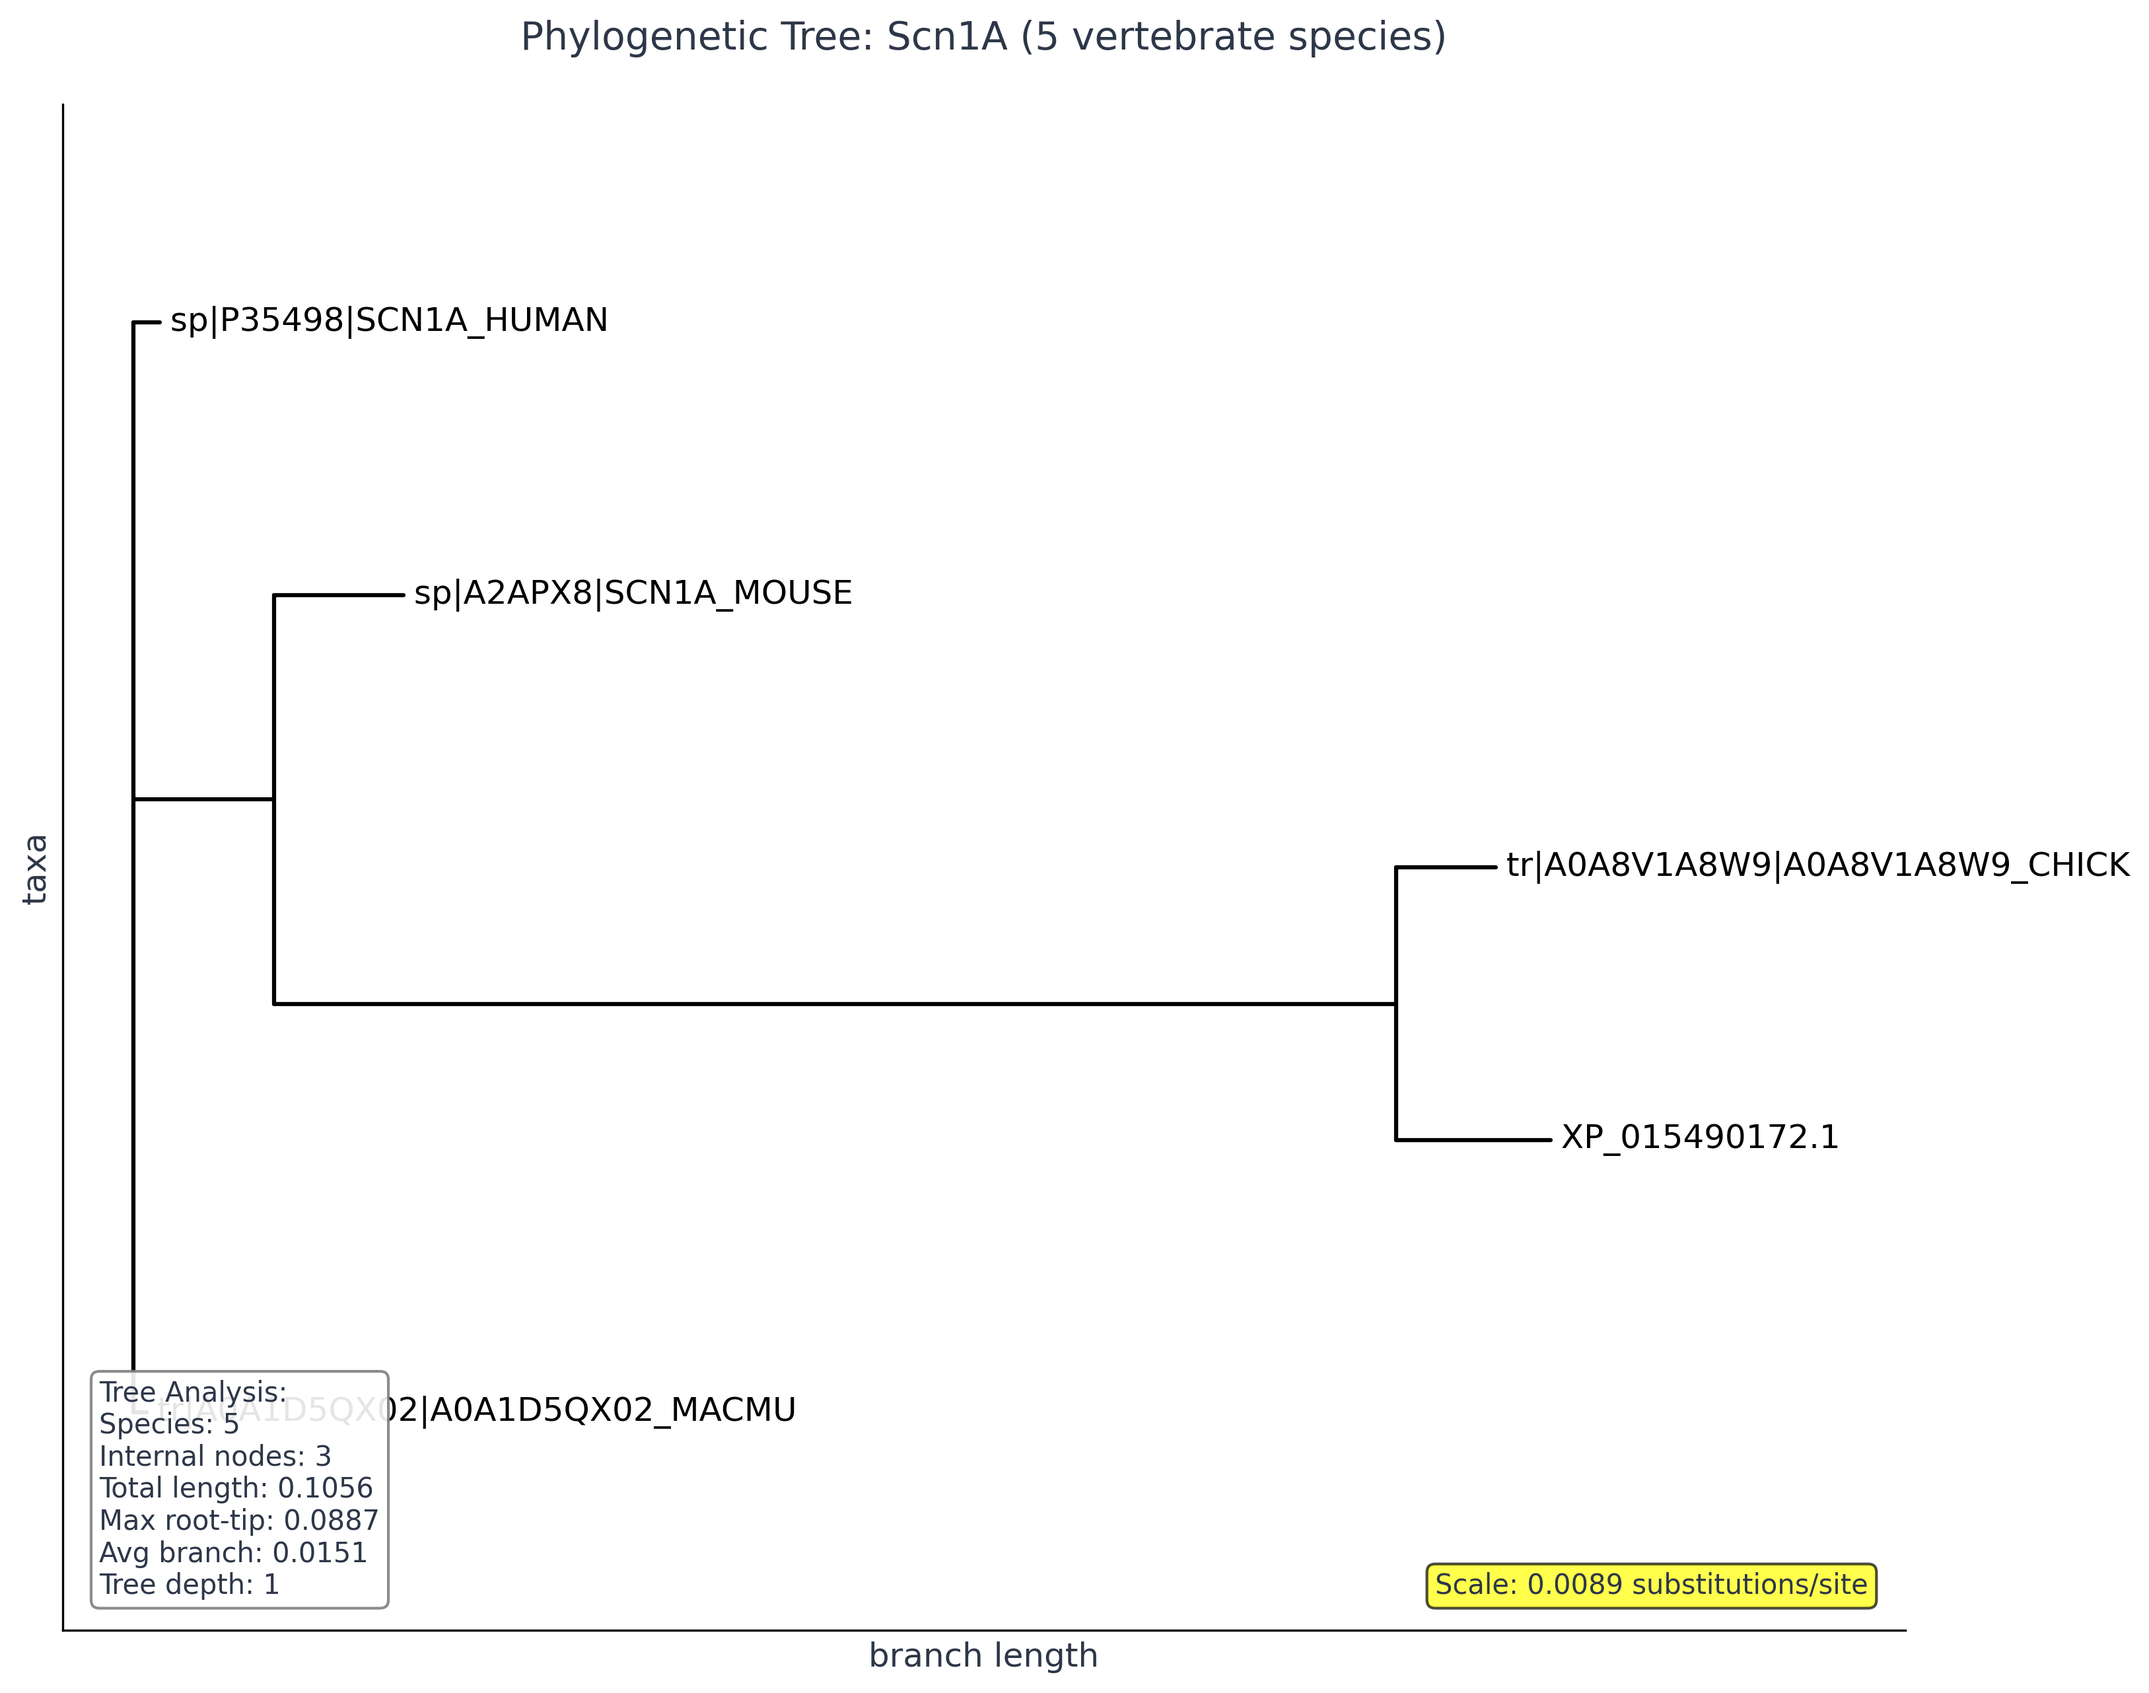
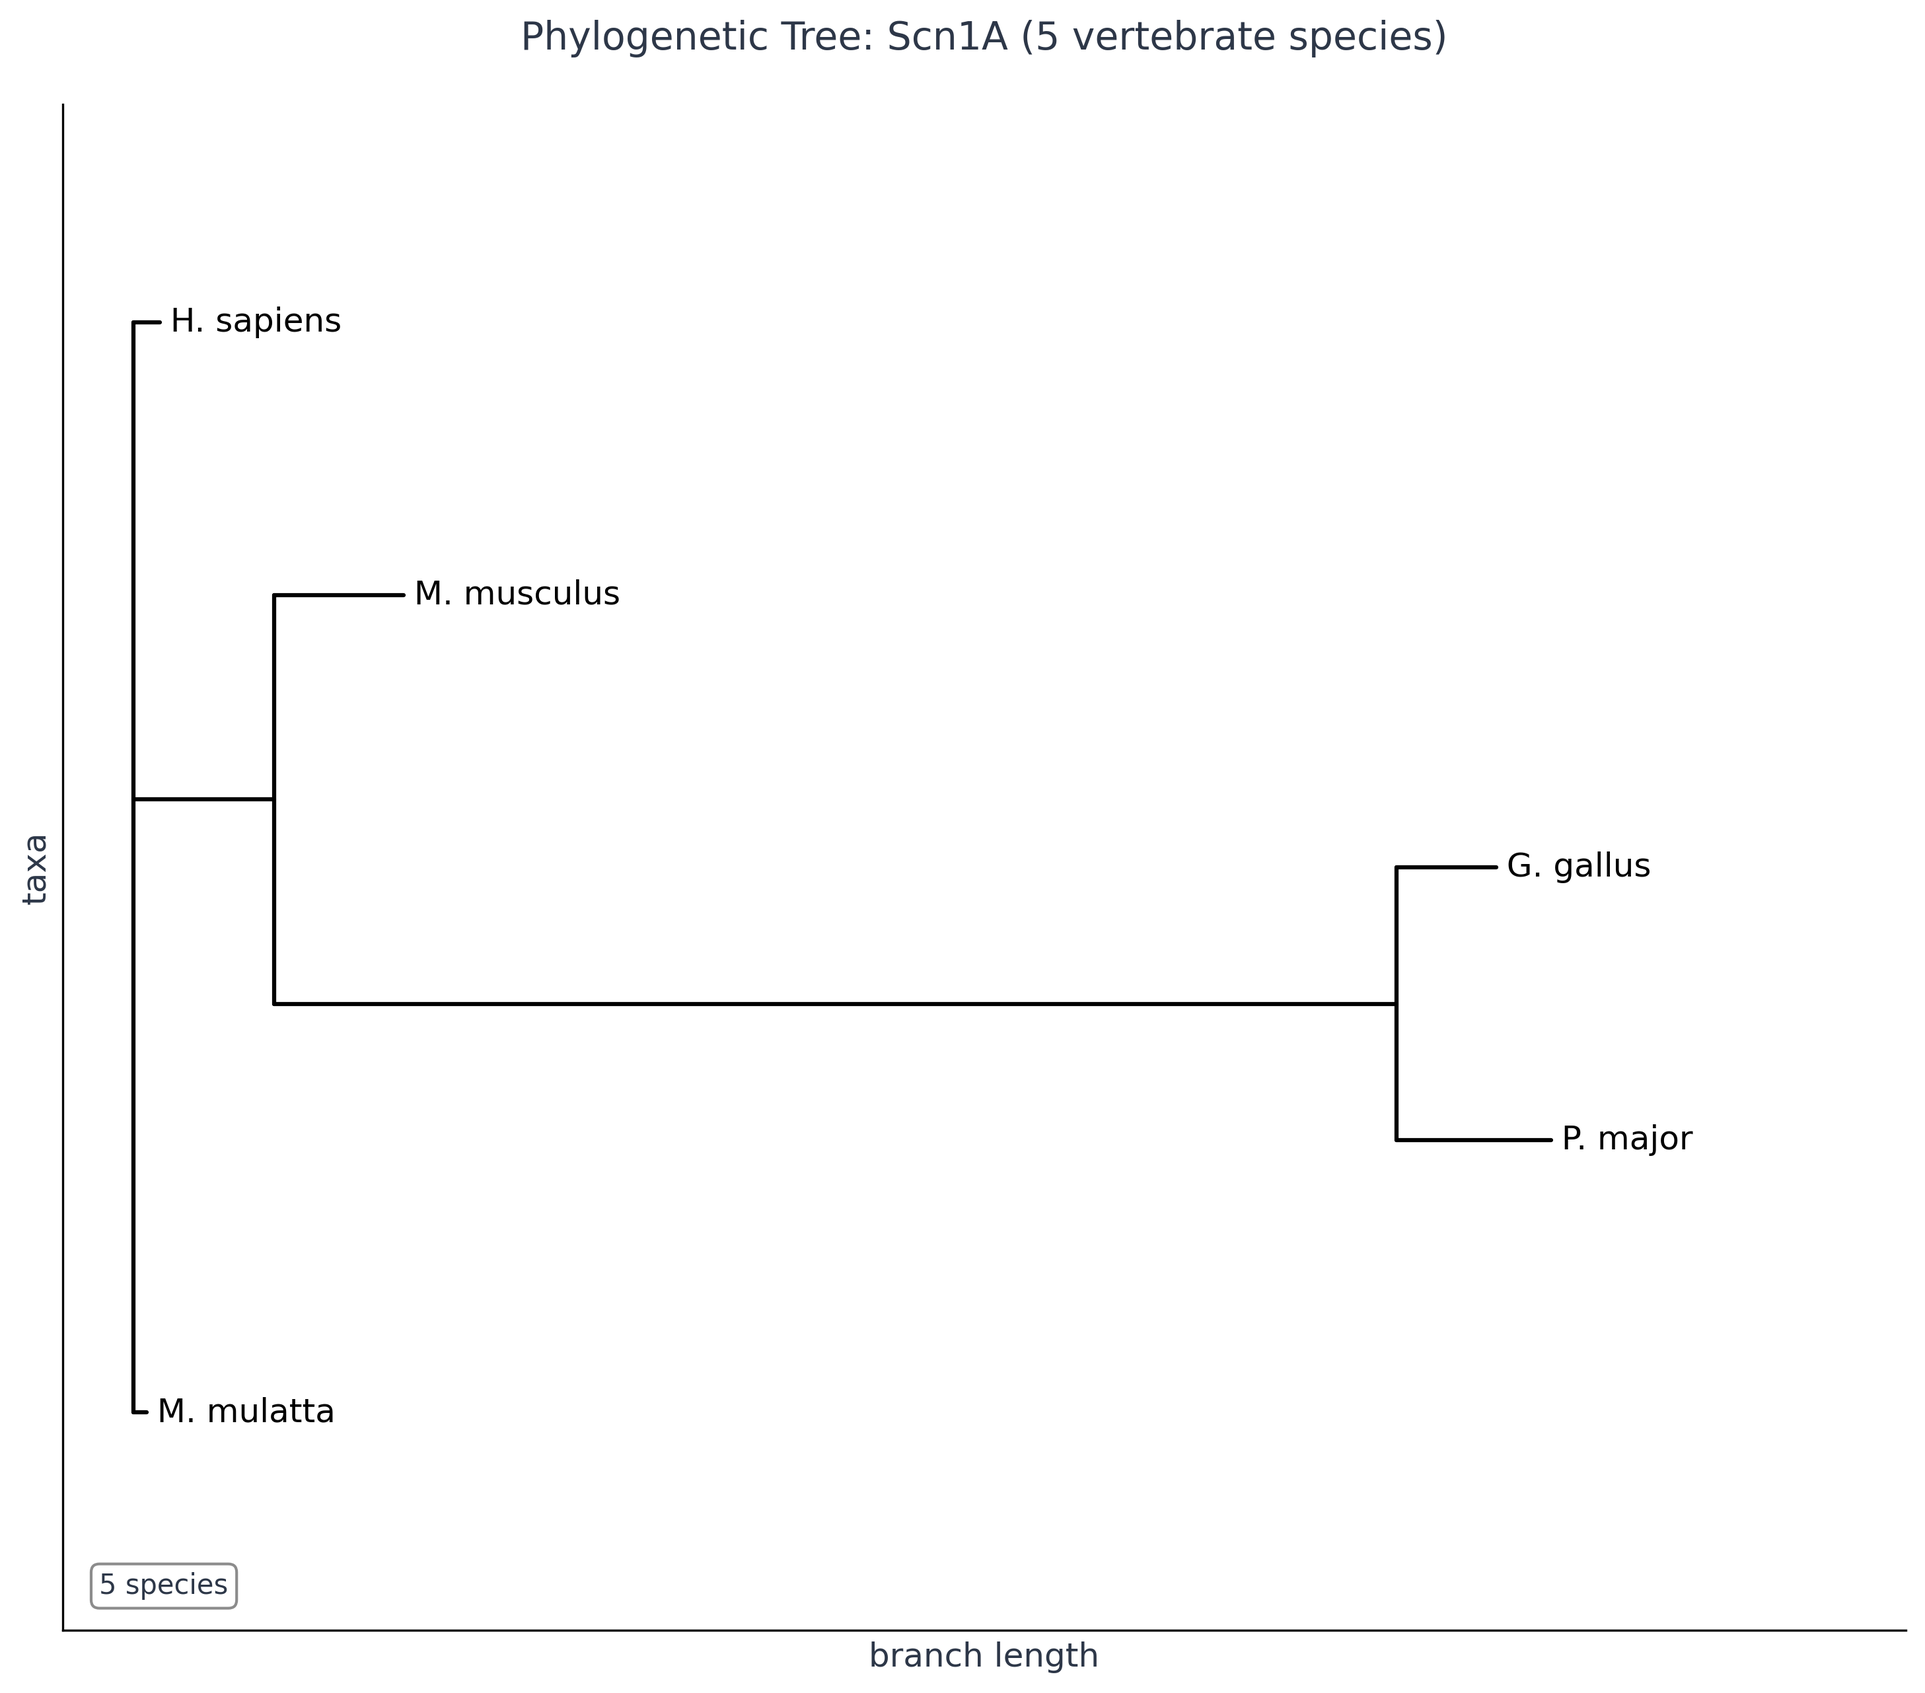
simplify tree diagram

diff --git a/src/comparative_genomics_pipeline/visualization/scientific_plots.py b/src/comparative_genomics_pipeline/visualization/scientific_plots.py
@@ -286,12 +286,14 @@ class PhylogeneticPlotter(BasePlotter):
         
         fig, ax = plt.subplots(figsize=self.config.figsize_phylogeny)
         
-        # Set up the tree plot
+        # Set up the tree plot with species labels
         if self.config.tree_layout == 'circular':
             Phylo.draw(tree, axes=ax, do_show=False, show_confidence=False,
-                      branch_labels=None if not self.config.show_branch_lengths else lambda x: f'{x.branch_length:.3f}')
+                      branch_labels=None if not self.config.show_branch_lengths else lambda x: f'{x.branch_length:.3f}',
+                      label_func=self._format_species_name)
         else:
-            Phylo.draw(tree, axes=ax, do_show=False, show_confidence=False)
+            Phylo.draw(tree, axes=ax, do_show=False, show_confidence=False,
+                      label_func=self._format_species_name)
         
         # Enhance the plot
         self._enhance_tree_plot(ax, tree, tree_file.stem)
@@ -301,43 +303,55 @@ class PhylogeneticPlotter(BasePlotter):
         
         return output_path
     
+    def _format_species_name(self, clade):
+        """Format species names for display on tree."""
+        if not clade.name:
+            return ""
+        
+        # Load species mapping from genes_to_proteins.json
+        from ..config import path_config
+        from ..util import file_util
+        
+        genes_to_proteins = file_util.open_file_return_as_json(
+            f"{path_config.DATA_INPUT_DIR}/genes_to_proteins.json"
+        )
+        
+        # Build dynamic mapping from protein IDs to species abbreviations
+        name_map = {}
+        for gene_name, orthologs in genes_to_proteins.items():
+            for ortholog in orthologs:
+                species_full = ortholog["species"]
+                # Convert "Homo sapiens" to "H. sapiens"
+                parts = species_full.split()
+                species_abbrev = f"{parts[0][0]}. {parts[1]}" if len(parts) >= 2 else species_full
+                
+                if ortholog.get("uniprot_id"):
+                    name_map[ortholog["uniprot_id"]] = species_abbrev
+                if ortholog.get("entrez_protein_id"):
+                    name_map[ortholog["entrez_protein_id"]] = species_abbrev
+        
+        # Extract species identifier from full name
+        for key, species in name_map.items():
+            if key in clade.name:
+                return species
+        
+        return clade.name
+    
     def _enhance_tree_plot(self, ax: plt.Axes, tree, title_base: str) -> None:
         """Enhance tree plot with comprehensive scientific formatting."""
-        ax.set_title(f'Phylogenetic Tree: {title_base.replace("_", " ").title()} (5 vertebrate species)',
+        terminals = tree.get_terminals()
+        species_count = len(terminals)
+        ax.set_title(f'Phylogenetic Tree: {title_base.replace("_", " ").title()} ({species_count} vertebrate species)',
                     fontsize=self.theme.title_fontsize, pad=20)
         
         # Remove axis ticks and labels for cleaner look
         ax.set_xticks([])
         ax.set_yticks([])
         
-        # Enhanced tree statistics and metadata
-        tree_info = self._get_comprehensive_tree_statistics(tree)
-        
-        # Create comprehensive information box
-        info_text = f"Tree Analysis:\n"
-        info_text += f"Species: {tree_info['taxa_count']}\n"
-        info_text += f"Internal nodes: {tree_info['internal_nodes']}\n"
-        
-        if tree_info['total_length'] > 0:
-            info_text += f"Total length: {tree_info['total_length']:.4f}\n"
-            info_text += f"Max root-tip: {tree_info['max_distance']:.4f}\n"
-            info_text += f"Avg branch: {tree_info['avg_branch_length']:.4f}\n"
-            info_text += f"Tree depth: {tree_info['tree_depth']}"
-        else:
-            info_text += "Topology only (no branch lengths)"
-        
-        ax.text(0.02, 0.02, info_text, transform=ax.transAxes,
+        # Simple species count display
+        ax.text(0.02, 0.02, f"{species_count} species", transform=ax.transAxes,
                verticalalignment='bottom', fontsize=self.theme.tick_fontsize,
                bbox=dict(boxstyle='round', facecolor='white', alpha=0.9, edgecolor='gray'))
-        
-        # Add evolutionary context if we have branch lengths
-        if tree_info['total_length'] > 0 and self.config.show_branch_lengths:
-            # Add scale bar
-            scale_length = tree_info['max_distance'] / 10  # 10% of max distance
-            ax.text(0.98, 0.02, f"Scale: {scale_length:.4f} substitutions/site", 
-                   transform=ax.transAxes, horizontalalignment='right',
-                   verticalalignment='bottom', fontsize=self.theme.tick_fontsize,
-                   bbox=dict(boxstyle='round', facecolor='yellow', alpha=0.7))
     
     def _get_tree_statistics(self, tree) -> Dict[str, float]:
         """Calculate basic tree statistics."""
